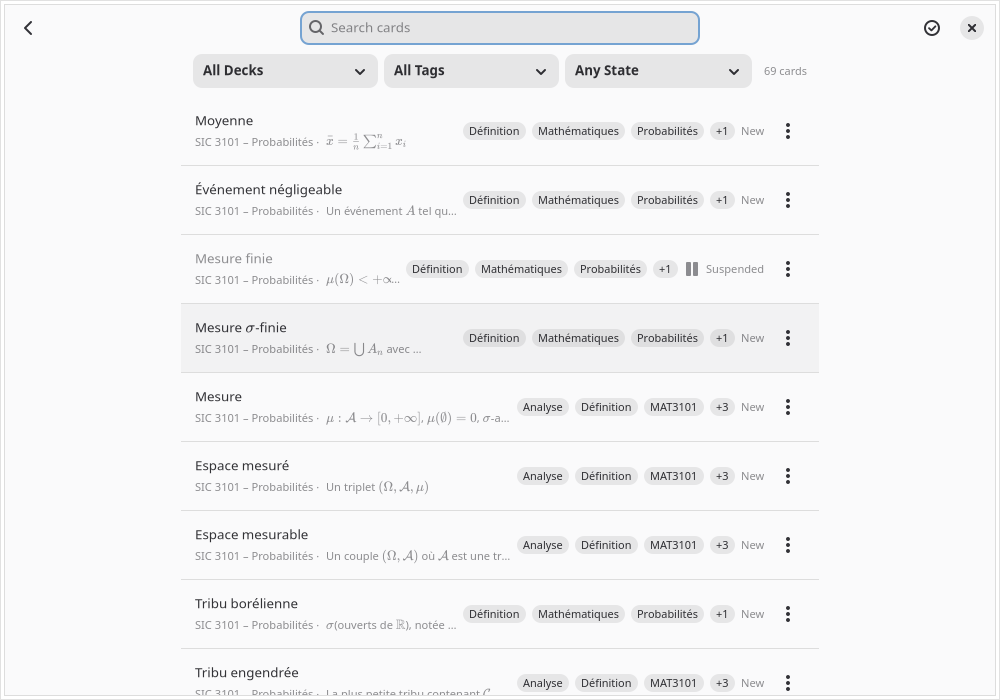
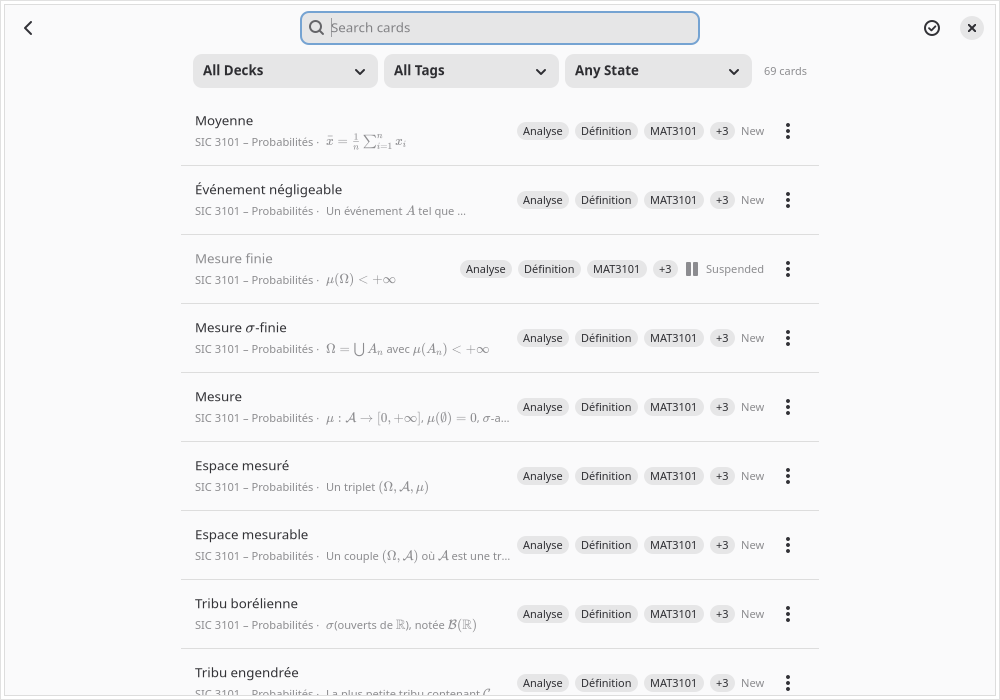
docs: address review of the store listing

diff --git a/crates/app/src/desktop_files.rs b/crates/app/src/desktop_files.rs
@@ -374,6 +374,14 @@ fn the_screenshots_are_committed_and_within_flathub_s_size() {
             "Flathub: a caption has no full stop and does not start with a number: {caption:?}"
         );
     }
+    // A release build pins the screenshots to its own tag (ADR 0083).
+    let built = env!("CARGO_PKG_VERSION");
+    if !built.contains('-') {
+        assert!(
+            SCREENSHOT_URL.contains(&format!("/v{built}/")),
+            "the crate is released as {built}: SCREENSHOT_URL must name the tag v{built}"
+        );
+    }
     let folder = repo().join("data/screenshots");
     let mut names = Vec::new();
     for url in &listed {

diff --git a/CHANGELOG.md b/CHANGELOG.md
@@ -11,13 +11,13 @@ and the project aims to follow [Semantic Versioning](https://semver.org/).
 - **Automatic backups to a folder you choose.** In Preferences, under Automatic Backups, choose a folder (a synced folder or a USB disk, say). Each day Rappel closes after a change, it saves a normal export there, named `Rappel backup 2026-11-09.rappel`, and keeps the 14 newest; it never touches any other file in the folder. The window closes at once and the backup finishes in the background (at most five minutes). If it fails (the folder is gone, the disk is full), closing is not held up, nothing is lost, the next close tries again, and the next start says what went wrong. Off by default (ADR 0080, #127).
 
 ### Changed
-- **The store listing is ready for 0.4.0**: seven new store screenshots (the deck page grouped by tag, All Cards, the Statistics card, review, the editor and a phone-sized one) taken from scratch data, their URLs in the metainfo pinned to the `v0.4.0` tag, and the notes for 0.4.0 kept ready in the metainfo for the release change (ADR 0083).
 - **A new Statistics page, a month at a time.** One card with a switch for Reviews, Time and Forecast shows 30 days of bars with grid values on the right and a date under each week, and the numbers of the selected day (today at first) and of the 30 days above it, as in GNOME Wellbeing. Failed reviews stand on the passed ones in a lighter shade of the same colour, and the screen-reader text gives their count. Round buttons page back and forth 30 days at a time, back as far as your first review. The forecast now covers the next 30 days, from tomorrow. Retention, pass rate and time studied are a Memory list under the card. A day can be selected with the arrow keys or by pressing anywhere on the chart (ADR 0078).
 - **Tidier card lists** on a deck's page and on All Cards. The cards sit on the page with thin lines between them, as in Files and Contacts: the front, and the back dimmed under it when the card has one (a card without a back takes one line). At the end of each row a short word says when the card is due: "Today" in the accent colour, "In 10 min", "Tomorrow", "In 3 days", "New" or "Suspended". The tags that every listed card has are said once above the list ("On every card: …"). On a deck's page, cards with the same other tags are grouped under a header ("Only the shared tags", or "Also" and those tags, with how many cards), so no row needs a tag; a deck with many different sets of tags shows plain rows with their own tags instead, with "+N" past three (one on a phone). All Cards is not grouped, since its filters do that; its rows show their tags and the deck's name on the second line, before the back. A suspended card's front is dimmed besides its pause icon (ADR 0077, 0079, #129).
 - **Formulas are drawn in the card lists**: "Mesure σ-finie", not "Mesure \sigma-finie", on one line at the size of the text; invalid LaTeX shows as its text (ADR 0077, #128).
 - **The app ID is now `io.github.rappelapp.Rappel`** (was `io.github.rsmirke.Rappel`), and every link points to `https://github.com/rappelapp/rappel`. The developer is shown as "The Rappel Project" in About and the metainfo. The data directory does **not** change: it stays `~/.local/share/rappel/` (ADR 0075, #130).
 - **Phase 3b is planned**: its brief and two mockups are in `docs/briefs/`, SPEC.md splits the old phase 3b into 3b (polish and the first Snap, ends in 0.4.0) and 3c (Flatpak bundle, translation workflow, hardening, ends in 1.0), and the maintainer's answers to the phase 3a questions are recorded.
 - **Rappel has its real icon**: a white index card and a red one on a ring, drawn by the maintainer in GNOME's style, and a matching symbolic icon. They replace the placeholders in `data/icons/` (ADR 0074).
+- **The store listing is ready for 0.4.0**: two new store screenshots (the deck page grouped by tag, and All Cards) and five retaken (review, the deck list, the Statistics card, the editor and a phone-sized one), all from scratch data, their URLs in the metainfo pinned to the `v0.4.0` tag, and the notes for 0.4.0 kept ready in the metainfo for the release change (ADR 0083).
 
 ### Fixed
 - **No more stray light dots around a card's text.** Moving to the next card, revealing the answer or editing in the preview could leave a pixel of the previous text (often of an accent, as above "Tribu engendrée"), or cut the top pixel off a new one. GTK repaints only what changed, measured on the letters without hinting, but draws them hinted, which can reach one pixel further; each card side now has GTK repaint a margin around everything it draws whenever it changes (ADR 0076, #120).

diff --git a/docs/adr/0083-store-listing-for-0-4-0.md b/docs/adr/0083-store-listing-for-0-4-0.md
@@ -6,10 +6,18 @@
 
 ## Decision
 
-**Screenshots.** The store set is now seven, retaken with `scripts/screenshot.py` under Xvfb in English, light style, GNOME's window buttons and blue accent, from `fill_scratch_db -- <dir> 0 --demo --probability` (scratch data only): `review.png` (default, a calculus card with its answer), `decks.png`, `deck.png` (a deck's page: the tags said once, the group header, drawn maths on both sides), `all-cards.png`, `statistics.png` (the new month-at-a-time card), `editor.png` (Markdown with a live preview) and `phone.png` (a flag card at 360 × 640). No key hints are visible. Together about 290 KB; each is under the 300 KB limit of the test. The harness has no compositor, so there is still no window shadow (ADR 0060's "not met" stands for Flathub).
+**Screenshots.** The store set is now seven, retaken with `scripts/screenshot.py` under Xvfb in English, light style, GNOME's window buttons and blue accent, from `fill_scratch_db -- <dir> 0 --demo --probability` (scratch data only): `review.png` (default, a calculus card with its answer), `decks.png`, `deck.png` (a deck's page: the tags said once, two group headers, "Only the shared tags" and "Also Analyse MAT3101", and rows with drawn maths on their backs), `all-cards.png`, `statistics.png` (the new month-at-a-time card), `editor.png` (Markdown with a live preview) and `phone.png` (a flag card at 360 × 640). No key hints are visible. Together about 290 KB; each is under the 300 KB limit of the test. The harness has no compositor, so there is still no window shadow (ADR 0060's "not met" stands for Flathub).
 
 **URLs pinned to the tag.** The metainfo and the test name `…/rappel/v0.4.0/data/screenshots/…` instead of `main`, as ADR 0060 suggested for release time, so a store listing of 0.4.0 keeps showing 0.4.0's screens. The tag exists only once the maintainer tags the release; until then the URLs 404 and `appstreamcli --no-net` (the test) does not fetch them.
 
 **Release notes held back.** The gate requires the metainfo's releases to be exactly the versions of `CHANGELOG.md`, and `Cargo.toml` still says 0.4.0-beta.1 until the version slice. A `0.4.0` entry added now would fail the gate. The text is kept in a comment in the metainfo; the slice that bumps the version turns it into the `<release version="0.4.0">` entry in the same change as the changelog's `[0.4.0]`.
 
 **The snap.** Packaging is stopped (ADR 0082), so there is no `snapcraft.yaml`. The metainfo's summary and description are final; the snap will copy them when packaging resumes.
+
+## Reproducing the set
+
+Data: `fill_scratch_db -- <dir> 0 --demo --probability`. For `deck.png` and `all-cards.png` the groups are balanced in a copy, so that both group headers are above the fold: the cards with `seq` 58, 59, 62 and 66 to 69 of the "SIC 3101 – Probabilités" deck also get the tags "Analyse" and "MAT3101" (two `INSERT OR IGNORE INTO card_tags` per card, with Python's `sqlite3` on the copy; the scratch data is throwaway). The step strings of each shot are in the README's "Retake the store screenshots". `all-cards.png` moves the pointer to the header bar before the shot, so no row is highlighted.
+
+## Release notes
+
+The held-back 0.4.0 notes open with one sentence for people coming from 0.1.0 (the betas added formulas, media, tags, search, statistics, export and import, Undo, phones and French), then list this release's changes and the SQLite security fix. A test now checks that, once the crate has a release version, `SCREENSHOT_URL` names its tag.

diff --git a/README.md b/README.md
@@ -80,13 +80,14 @@ Rappel uses gettext, laid out as GNOME projects are (ADR 0059): `po/LINGUAS` lis
 Drafts of the files that make Rappel look like a GNOME app once installed are in [`data/`](data/) (ADR 0060): the desktop entry (`io.github.rappelapp.Rappel.desktop.in`), the AppStream metainfo for software stores (`io.github.rappelapp.Rappel.metainfo.xml.in`: description, releases, content rating, screenshots), the app icon and its symbolic icon in `data/icons/` (ADR 0074), and the store screenshots in `data/screenshots/`. Nothing installs them yet: packaging (a Meson build that merges their translations and installs them, a Snap, and a self-hosted Flatpak with a manifest written by hand) comes in phases 3b (the Snap, ending in 0.4.0) and 3c (the Flatpak, ending in 1.0).
 
 - **Validate them**: the gate does (`cargo test -p rappel desktop_files`), with `desktop-file-validate` and `appstreamcli validate --no-net --pedantic`, in English and with the French translation merged in. Their texts are in `po/rappel.pot` like the app's.
-- **A new release** needs its `<release>` in the metainfo (newest first, a pre-release written `0.3.0~beta.1`); the gate fails while `CHANGELOG.md` has a version the metainfo lacks.
+- **A new release** needs its `<release>` in the metainfo (newest first, a pre-release written `0.3.0~beta.1`); the gate fails while `CHANGELOG.md` has a version the metainfo lacks. The screenshot URLs name the release's tag (`…/rappel/v0.4.0/…`, ADR 0083): bump it in the metainfo and in `SCREENSHOT_URL` of `desktop_files.rs` (a test checks it once the crate has a release version). The notes for 0.4.0 wait in a comment in the metainfo, to become its `<release>` with the version bump.
 - **Retake the store screenshots** after a visible change (light style, GNOME's window buttons and accent, 1000 × 700 and a phone at 360 × 640):
   ```sh
   cargo run -p rappel-core --example fill_scratch_db -- $PWD/target/tmp/demo 0 --demo --probability
   scripts/screenshot.py --out store --size 1000x700 --data target/tmp/demo \
-      --env ADW_DEBUG_ACCENT_COLOR=blue --decoration-layout :close --steps "wait:6 shot:decks"
+      --env ADW_DEBUG_ACCENT_COLOR=blue --decoration-layout :close --steps "wait:5 shot:decks"
   ```
+  The other shots use the same flags with `--size`, `--deck` (an id from the `decks` table) and these steps (ADR 0083 has the details): `review`: Calculus, `--steps "wait:5 key:s wait:2 key:space wait:1 shot:review"`; `deck`: the "SIC 3101 – Probabilités" deck, `wait:5 shot:deck`; `all-cards`: `wait:5 key:ctrl+f wait:2 click:850,28 wait:1 shot:allcards` (the click moves the pointer off the list); `statistics`: `wait:5 click:932,28 wait:1 click:838,79 wait:2 shot:statistics`; `editor`: Calculus, `wait:5 key:ctrl+n wait:2 type:What%20is%20the%20derivative%20of%20$\sin(x^2)$? click:310,450 type:$2x\cos(x^2)$,%20by%20the%20**chain%20rule** click:310,630 type:derivatives, wait:1 shot:editor`; `phone`: `--size 360x640`, the Flags deck, `wait:5 key:s wait:2 key:space wait:1 shot:phone`.
   then copy the shots from `docs/briefs/screenshots/` to `data/screenshots/` (`convert … -strip` keeps them small). The harness has no compositor, so the windows have no shadow; for a Flathub submission, retake them on GNOME with Alt+Print.
 
 ## Recovering your data

diff --git a/ARCHITECTURE.md b/ARCHITECTURE.md
@@ -232,7 +232,7 @@ Files of two kinds live in `data/`: composite templates (a `template` block, loa
 
 ## Desktop integration drafts
 
-The top-level `data/` folder (not `crates/app/data/`, which is compiled into the binary) holds what packaging will install (ADR 0060): `io.github.rappelapp.Rappel.desktop.in`, `io.github.rappelapp.Rappel.metainfo.xml.in` (description, releases, content rating, screenshots by URL), the app icon and its symbolic icon in `icons/hicolor/{scalable,symbolic}/apps/` (ADR 0074), and the committed store screenshots in `screenshots/`. Nothing builds or installs them yet (packaging is phase 3b); their translatable texts are in `po/POTFILES.in` and `po/rappel.pot`. `crates/app/src/desktop_files.rs` (tests only) runs `desktop-file-validate` and `appstreamcli validate --no-net --pedantic` on them in English and with French merged in, and checks that the ids, binary, icon name, gettext domain, licence and links are the code's, that the releases are `CHANGELOG.md`'s versions, that the screenshots are committed PNGs within Flathub's size, and that the icons are plain SVG (their only `url(…)` references are to their own gradients). `fill_scratch_db --demo` makes the data the screenshots show.
+The top-level `data/` folder (not `crates/app/data/`, which is compiled into the binary) holds what packaging will install (ADR 0060): `io.github.rappelapp.Rappel.desktop.in`, `io.github.rappelapp.Rappel.metainfo.xml.in` (description, releases, content rating, screenshots by URL), the app icon and its symbolic icon in `icons/hicolor/{scalable,symbolic}/apps/` (ADR 0074), and the committed store screenshots in `screenshots/`. Nothing builds or installs them yet (packaging is phase 3b); their translatable texts are in `po/POTFILES.in` and `po/rappel.pot`. `crates/app/src/desktop_files.rs` (tests only) runs `desktop-file-validate` and `appstreamcli validate --no-net --pedantic` on them in English and with French merged in, and checks that the ids, binary, icon name, gettext domain, licence and links are the code's, that the releases are `CHANGELOG.md`'s versions, that the screenshots are committed PNGs within Flathub's size, and that the icons are plain SVG (their only `url(…)` references are to their own gradients). `fill_scratch_db --demo --probability` makes the data the screenshots show (README, "Retake the store screenshots").
 
 ## Quality gate
 
